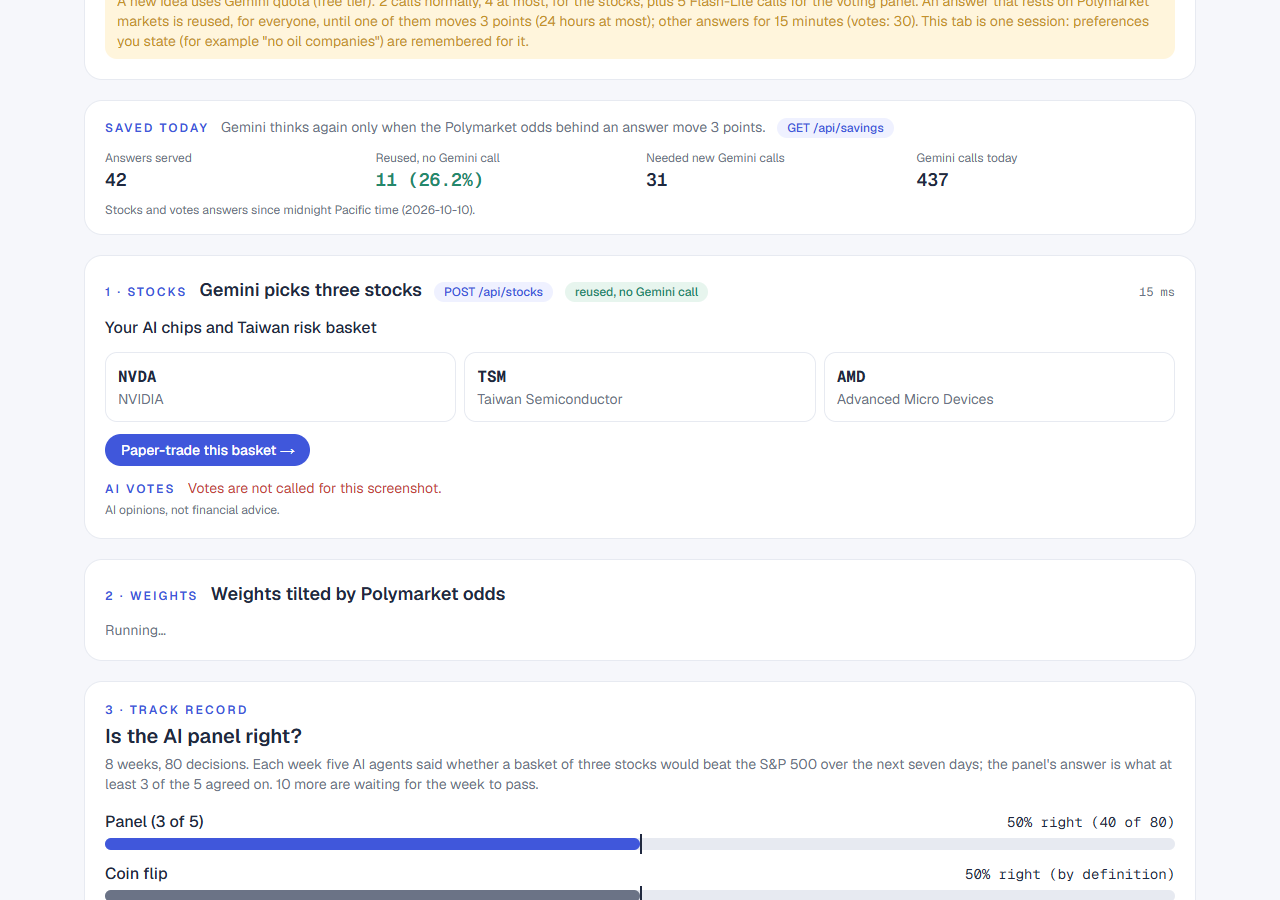
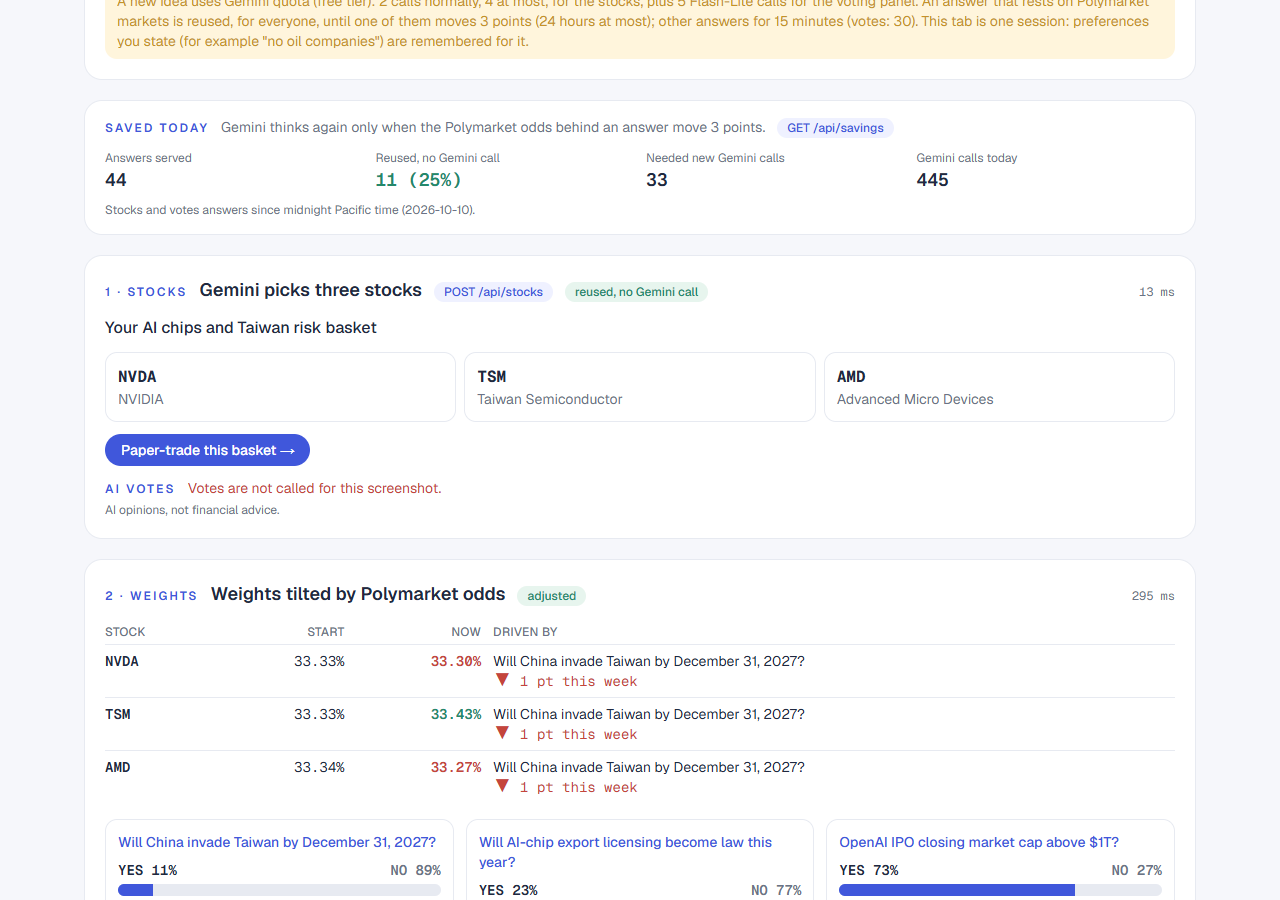
Lab: line-ending-safe copy check, production walk-through screenshots

diff --git a/web/src/lib/lab/lab.spec.ts b/web/src/lib/lab/lab.spec.ts
@@ -34,8 +34,10 @@ describe("pnpm sync:lab", () => {
   // On Vercel only /web exists; the comparison runs wherever the repository root is present.
   it.skipIf(!hasLab)("the committed copies match /experiment (run `pnpm sync:lab`)", () => {
     for (const file of LAB_FILES) {
+      // Compared as text without CRLF: a Windows checkout may convert either side.
+      const text = (bytes: Buffer) => bytes.toString("utf8").replace(/\r\n/g, "\n");
       const expected = labCopy(file, readFileSync(path.join(labDir, file.from)));
-      expect(readFileSync(file.to).equals(expected), file.to).toBe(true);
+      expect(text(readFileSync(file.to)) === text(expected), file.to).toBe(true);
     }
   });
 
